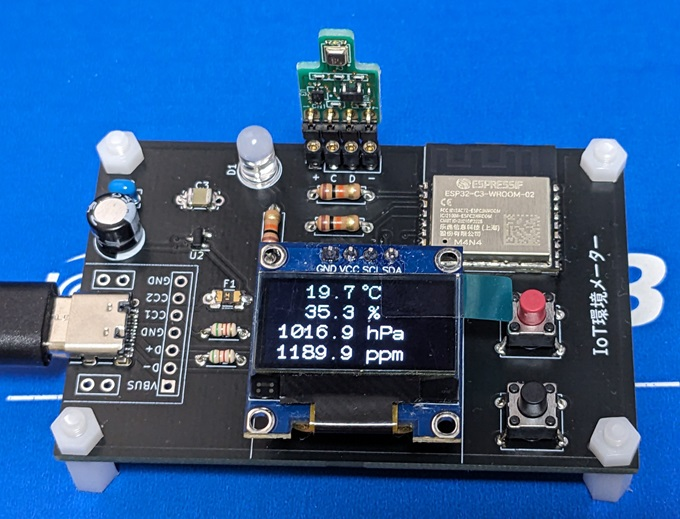
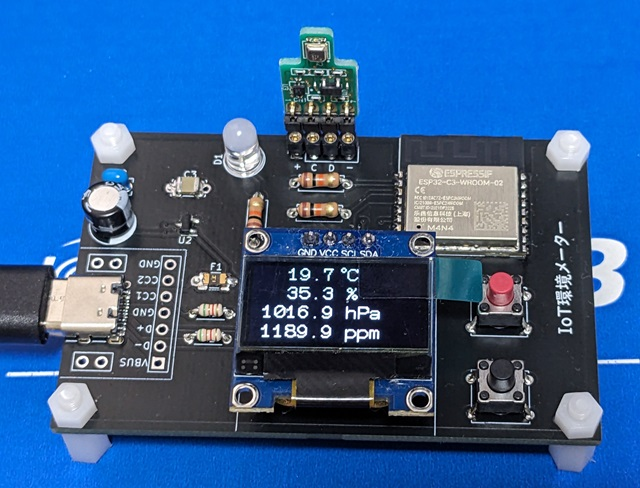
詳細表示の写真を追加

diff --git a/README.md b/README.md
@@ -64,7 +64,11 @@ T.B.D.
 
 ## 完成品
 
-[![完成品](https://raw.githubusercontent.com/k-takata/PCB_envmeter_esp32c3/master/images/envmeter-thumb.jpg)](https://raw.githubusercontent.com/k-takata/PCB_envmeter_esp32c3/master/images/envmeter.jpg)
+通常表示<br>
+[![完成品、通常表示](https://raw.githubusercontent.com/k-takata/PCB_envmeter_esp32c3/master/images/envmeter-thumb.jpg)](https://raw.githubusercontent.com/k-takata/PCB_envmeter_esp32c3/master/images/envmeter.jpg)
+
+詳細表示<br>
+[![完成品、詳細表示](https://raw.githubusercontent.com/k-takata/PCB_envmeter_esp32c3/master/images/envmeter-detail-thumb.jpg)](https://raw.githubusercontent.com/k-takata/PCB_envmeter_esp32c3/master/images/envmeter-detail.jpg)
 
 ## License
 
